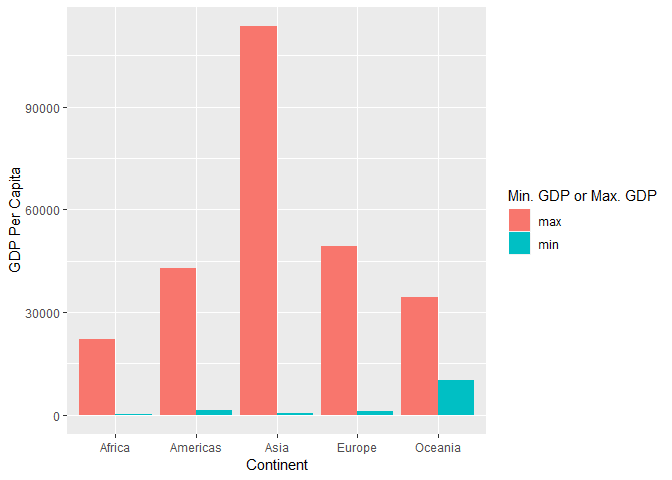
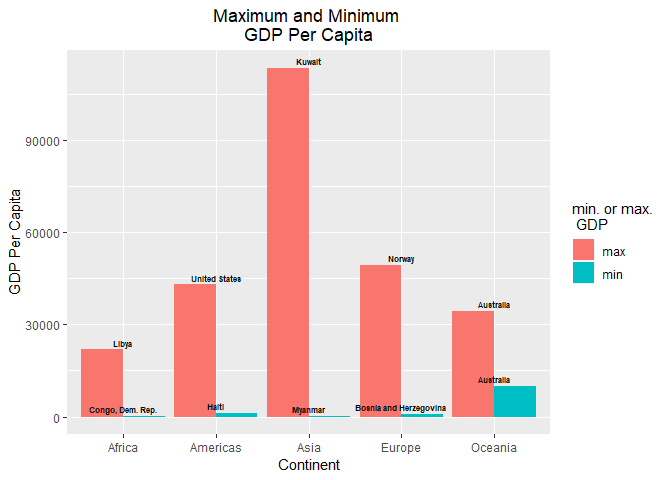
Done task 2

diff --git a/hw03-aidanh14.md b/hw03-aidanh14.md
@@ -30,6 +30,7 @@ lifeExpOverTime <- gapminder %>%
   mutate(meanLifeExp = mean(lifeExp), sdLifeExp = sd(lifeExp)) %>%
   select(year, continent, meanLifeExp, sdLifeExp)
 
+# Sample a single row for each of the continents
 lifeExpOverTime %>%
   ungroup() %>%
   distinct(continent, .keep_all = TRUE) %>%
@@ -47,10 +48,11 @@ lifeExpOverTime %>%
 A simple line plot of mean life expectancy vs. year will give us an idea of what's happening over time.
 
 ``` r
-lifeExpPlot <- ggplot(lifeExpOverTime,
-                      aes(y = meanLifeExp, x = year, color = continent, group = continent)) +
+lifeExpPlot <- ggplot(lifeExpOverTime, aes(y = meanLifeExp, x = year, color = continent, group = continent)) +
   ggtitle("Life Expectancy Vs. Year") +
-  theme(plot.title = element_text(hjust = 0.5)) #Center the title, left-aligned by default
+  
+  #Center the title, left-aligned by default
+  theme(plot.title = element_text(hjust = 0.5))
 
 lifeExpPlot +
   geom_line()
@@ -133,8 +135,22 @@ We can plot the max and min GDP per capita of each continent conveniently in a b
 
 ``` r
 ggplot(countries, aes(x = continent, y = gdpPercap, fill = MinOrMax)) +
-  geom_col(position="dodge") +
-  labs(y = "GDP Per Capita", x = "Continent", fill = "Min. GDP or Max. GDP")
+  geom_col(position = "dodge") +
+  
+  # Labelling
+  geom_text(aes(label = country, vjust = -0.5), size = 2, fontface="bold") +
+  labs(y = "GDP Per Capita", x = "Continent", fill = "min. or max. \n GDP") +
+  
+  # ggplot automatically adds a legend for size and alpha, need to remove them
+  guides(size=FALSE, alpha=FALSE) +
+  
+  ggtitle("Maximum and Minimum \nGDP Per Capita") +
+  
+  # Center the title, left-aligned by default
+  theme(plot.title = element_text(hjust = 0.5))
 ```
 
 ![](hw03-aidanh14_files/figure-markdown_github/bar%20plot-1.png)
+
+Task 3:
+-------
